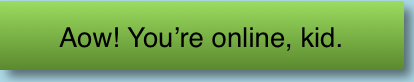
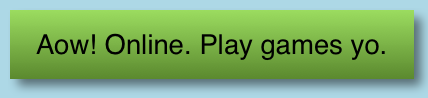
This pop up is beautiful

diff --git a/partyTimePopUp.js b/partyTimePopUp.js
@@ -2,8 +2,8 @@
 * and displays the status on the extension popup. */
 if (navigator.onLine) {
 	// If the internet is online, the below code shows an online green button and links to a speed test. Otherwise it just says the internet is out, and give a red button
-	document.getElementById('status').innerHTML = "<a href='index.html' target='_blank'><img src='images/onlineImage.png' height=50px width=260px</a>";
+	document.getElementById('status').innerHTML = "<a href='index.html' target='_blank'><img src='images/onlineImage.png' height=65px width=280px</a>";
 
 } else {
-	document.getElementById("status").innerHTML = "<a href='index.html' target='_blank'><img src='images/offlineImage.png' height=50px width=260px</a>";
+	document.getElementById("status").innerHTML = "<a href='index.html' target='_blank'><img src='images/offlineImage.png' height=65px width=280px</a>";
 }

diff --git a/partyTimePopUp.html b/partyTimePopUp.html
@@ -13,6 +13,8 @@
         <div class="internetContainer" id="status"></div>
         <script type="text/javascript" src="partyTimePopUp.js"></script>
 
+        <img class="menuContainer" src="images/popupDescriber.png" width="260px">
+
         <!-- This here is a bunch of icons and links to their related games. -->
         <div = class="gamePageContainer">
             <a class="left_icon" id="left_icon" href="space.html" target="_blank"><img src="images/spaceshipIcon.png" alt="asteroid game icon"style="width:85px;height:85px"></a>

diff --git a/css/partyTimePopUp.css b/css/partyTimePopUp.css
@@ -18,4 +18,26 @@
 
 .gamePageContainer{
 	text-align: center;
+	padding-bottom: 10px;
+}
+
+/*div.menuContainer{
+	content:url('images/popupDescriber.png');
+	height: 120px;
+	width: 60px;
+	vertical-align: middle;
+	text-align: center;
+	background-image:url('images/popupDescriber.png');
+}*/
+
+
+.menuContainer{
+	padding-top: 10px;
+	padding-bottom: 10px;
+	margin-left: 35px;
+	margin-right: 35px;
+	height: 60px;
+	width: 230px;
+	vertical-align: middle;
+	/*text-align: center;*/
 }
